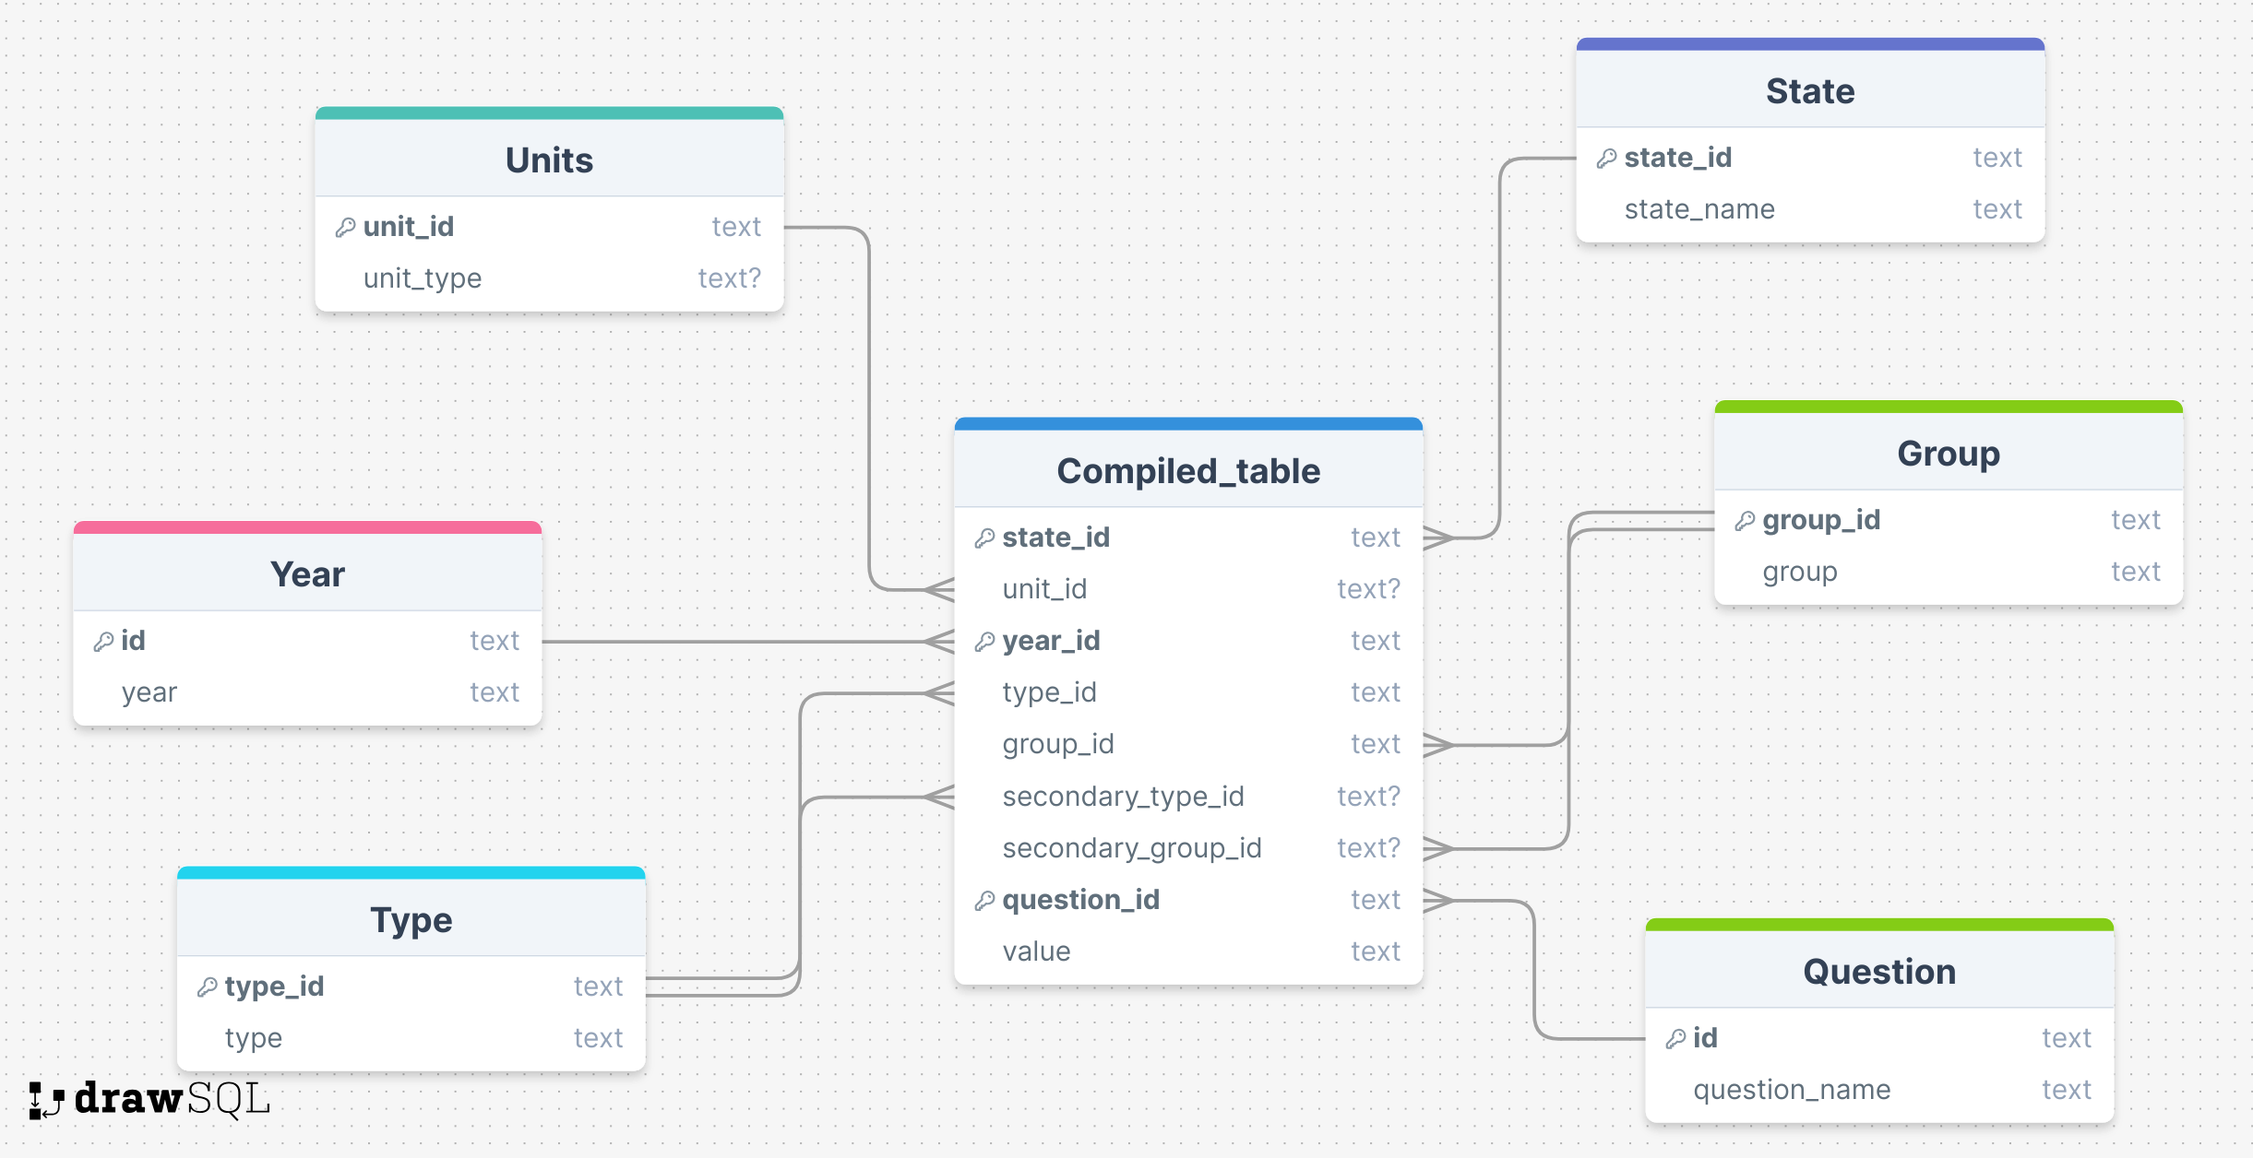
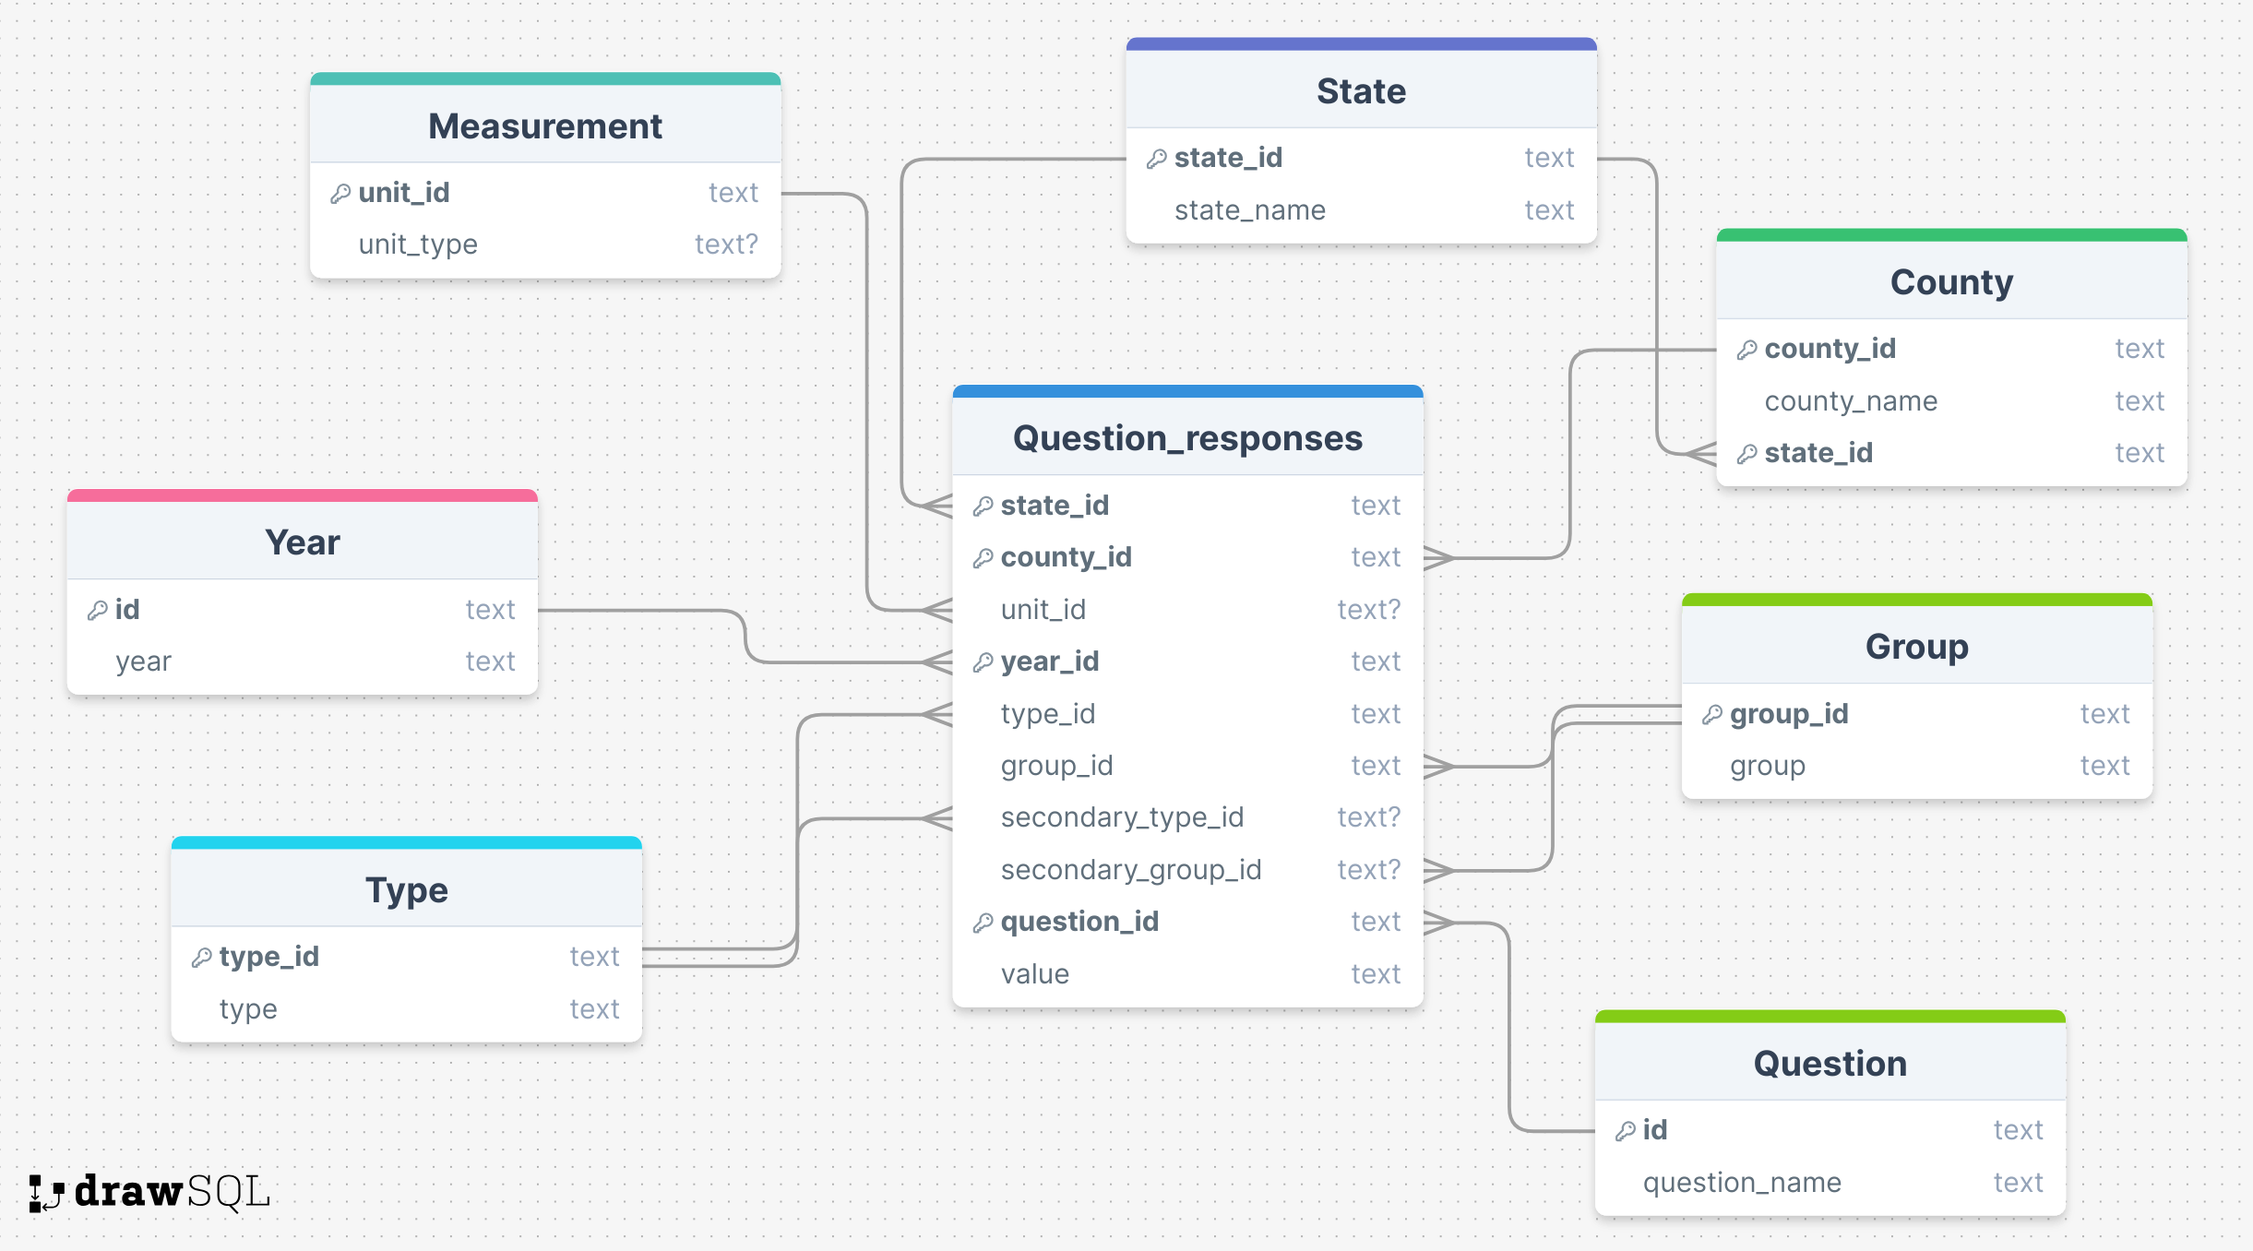
Built site for gh-pages

diff --git a/capstone.html b/capstone.html
@@ -90,6 +90,36 @@ ul.task-list li input[type="checkbox"] {
 </section>
 <section id="methods" class="level1">
 <h1>Methods</h1>
+<section id="sources" class="level2">
+<h2 class="anchored" data-anchor-id="sources">Sources</h2>
+<p>We gathered data from two public sources: KFF (an independent source for health policy research, polling, and news)⁶ and County Health Rankings and Roadmaps (CHRR).² Data was downloaded as CSVs and then cleaned using R. A detailed description of our data cleaning along with our data organizational structure (Entity Relationship Diagram) are in the data section below.</p>
+</section>
+<section id="data-analysis" class="level2">
+<h2 class="anchored" data-anchor-id="data-analysis">Data Analysis</h2>
+<section id="statistical-thinking" class="level3">
+<h3 class="anchored" data-anchor-id="statistical-thinking">Statistical Thinking</h3>
+<p>We used statistics (such as Pearson’s R correlation) and modeling (regression) to determine how access to preventative care correlates with health status. We determined health status using commonly used markers (proxies) such as life expectancy, quality of life, and mortality rates.³ We compared proportions across states to account for differences in population.</p>
+</section>
+<section id="data-visualization" class="level3">
+<h3 class="anchored" data-anchor-id="data-visualization">Data Visualization</h3>
+<p>We used data visualization as part of both our exploratory data analysis and in our final outcome. We created a map of the United States to determine if there is a spatial relationship between our variables and quality of health.</p>
+</section>
+<section id="data-engineering" class="level3">
+<h3 class="anchored" data-anchor-id="data-engineering">Data Engineering</h3>
+<p>We stored our data into a relational database and accessed it with Postgresql (through Railway). A detailed description for how this was done is in the data section below.</p>
+</section>
+<section id="machine-learning" class="level3">
+<h3 class="anchored" data-anchor-id="machine-learning">Machine Learning</h3>
+<p>We created a simple application where the user can enter their health insurance status, demographics, and current health status to discover their predicted life expectancy and health outcomes (using common metrics such as HALY, DALY, and QALY).⁷</p>
+</section>
+<section id="data-ethics" class="level3">
+<h3 class="anchored" data-anchor-id="data-ethics">Data Ethics</h3>
+<p>We were wary of furthering the gap between classes, races, and/or genders. Often, those in lower socioeconomic status tend to have lower quality of health and less access to affordable healthcare. Our goal was not to perpetuate this gap but to find potential solutions for these underserved populations. We also recognized that our datasets were incomplete and that we were not be able to represent everyone’s needs. Those who are not using well-known forms of insurance, such as Direct Primary Care, or who are not seeking traditional medical care are not represented.</p>
+</section>
+</section>
+</section>
+<section id="data" class="level1">
+<h1>Data</h1>
 <section id="data-ingestion" class="level2">
 <h2 class="anchored" data-anchor-id="data-ingestion">Data Ingestion</h2>
 <p>We gathered data from two sources: KFF (an independent source for health policy research, polling, and news)⁶ and County Health Rankings and Roadmaps (CHRR).²</p>
@@ -105,7 +135,7 @@ ul.task-list li input[type="checkbox"] {
 <p>Similar to KFF, we downloaded data for each state from 2022-2017 (not including 2020) from CHRR. We chose the “20xx County Health Release National Data” links for each year. This data included metrics such as life expectancy, death rate, years of potential loss rate, food environment index, percentage of physically inactive adults, percentage of excessive drinking, PCP ratio, and much more.²</p>
 <p>County Health Rankings and Roadmaps (CHRR) data was downloaded from the years 2017-2022 (excluding the missing 2020 year). Data from CHRR originally came in two separate CSVs for each year and broke up the data by each county in the United States.</p>
 <p>First, we cleaned up the columns. We reviewed the documentation and renamed any potentially confusing column names. For example, “#_Medicare_Enrollees” became “no_female_medicare_enrollees” to avoid mistakenly believeing the first column included both genders in its count. We dropped columns that would not be of help to us, such as the “95% CI - Low” and “95% CI - High” columns, as our dataset did not describe how these confidence intervals were found. We replaced all spaces with an underscore.</p>
-<p>Second, we joined the two CSVs for each year to have one CSV per year and added a “Year” column to help with merging later. Then we found the mean for each column for each state.</p>
+<p>Second, we joined the two CSVs for each year to have one CSV per year and added a “Year” column to help with merging later.</p>
 <p>Finally, we reformatted the CSVs to match that of the KFF data, where our original columns became the “question” column and the values filled in a new “values” column. Again, we used text parsing such as “grepl” and “gsub” to fill in our newly created “demographic,” “measure”, “group”, “secondary_demographic”, and “secondary_group” columns. For example, if our question was “mean_%<em>Children_in_Poverty</em>(white)”, our “demographic”, “group”, “secondary_demographic”, and “secondary_group” columns became “Race/Ethnicity”, “White”, “Age”, and “0-17”, respectively.</p>
 <p>Since the questions and potential answers collected by CHRR data varied each year, we made sure that our cleaning code was modified for each year to both accomodate the changes in the data and match identical answers from previous years. As an example, the only races that were listed as options in the 2017 data were “White”, “Black”, “Hispanic”, and “Asian”. However, by the 2022 data collection, the options had expanded to include “American Indian/Alaskan Native”, “Native Hawaiian/Other Pacific Islander”, and “Other/Multiple Races.” In 2022, “Black” was changed to “African American,” so we changed it back to “Black” to both match the earlier CHRR data and the KFF data.</p>
 </section>
@@ -120,32 +150,6 @@ ul.task-list li input[type="checkbox"] {
 </figure>
 </div>
 </section>
-<section id="data-analysis" class="level2">
-<h2 class="anchored" data-anchor-id="data-analysis">Data Analysis</h2>
-<section id="statistical-thinking" class="level3">
-<h3 class="anchored" data-anchor-id="statistical-thinking">Statistical Thinking</h3>
-<p>We used statistics (such as Pearson’s R correlation) and modeling (regression) to determine how access to preventative care correlates with health status. We determined health status using commonly used markers (proxies) such as life expectancy, quality of life, and mortality rates.³ We compared proportions across states to account for differences in population.</p>
-</section>
-<section id="data-visualization" class="level3">
-<h3 class="anchored" data-anchor-id="data-visualization">Data Visualization</h3>
-<p>We used data visualization as part of both our exploratory data analysis and in our final outcome. We created a map of the United States to determine if there is a spatial relationship between our variables and quality of health.</p>
-</section>
-<section id="data-engineering" class="level3">
-<h3 class="anchored" data-anchor-id="data-engineering">Data Engineering</h3>
-<p>We stored our data into a relational database and accessed it with Postgresql. See above for a detailed description for how this was done.</p>
-</section>
-<section id="machine-learning" class="level3">
-<h3 class="anchored" data-anchor-id="machine-learning">Machine Learning</h3>
-<p>We created a simple application where the user can enter their health insurance status, demographics, and current health status to discover their predicted life expectancy and health outcomes (using common metrics such as HALY, DALY, and QALY).⁷</p>
-</section>
-<section id="data-ethics" class="level3">
-<h3 class="anchored" data-anchor-id="data-ethics">Data Ethics</h3>
-<p>We were wary of furthering the gap between classes, races, and/or genders. Often, those in lower socioeconomic status tend to have lower quality of health and less access to affordable healthcare. Our goal was not to perpetuate this gap but to find potential solutions for these underserved populations. We also recognized that our datasets were incomplete and that we were not be able to represent everyone’s needs. Those who are not using well-known forms of insurance, such as Direct Primary Care, or who are not seeking traditional medical care are not represented.</p>
-</section>
-</section>
-</section>
-<section id="data" class="level1">
-<h1>Data</h1>
 </section>
 <section id="results" class="level1">
 <h1>Results</h1>

diff --git a/index.html b/index.html
@@ -90,6 +90,36 @@ ul.task-list li input[type="checkbox"] {
 </section>
 <section id="methods" class="level1">
 <h1>Methods</h1>
+<section id="sources" class="level2">
+<h2 class="anchored" data-anchor-id="sources">Sources</h2>
+<p>We gathered data from two public sources: KFF (an independent source for health policy research, polling, and news)⁶ and County Health Rankings and Roadmaps (CHRR).² Data was downloaded as CSVs and then cleaned using R. A detailed description of our data cleaning along with our data organizational structure (Entity Relationship Diagram) are in the data section below.</p>
+</section>
+<section id="data-analysis" class="level2">
+<h2 class="anchored" data-anchor-id="data-analysis">Data Analysis</h2>
+<section id="statistical-thinking" class="level3">
+<h3 class="anchored" data-anchor-id="statistical-thinking">Statistical Thinking</h3>
+<p>We used statistics (such as Pearson’s R correlation) and modeling (regression) to determine how access to preventative care correlates with health status. We determined health status using commonly used markers (proxies) such as life expectancy, quality of life, and mortality rates.³ We compared proportions across states to account for differences in population.</p>
+</section>
+<section id="data-visualization" class="level3">
+<h3 class="anchored" data-anchor-id="data-visualization">Data Visualization</h3>
+<p>We used data visualization as part of both our exploratory data analysis and in our final outcome. We created a map of the United States to determine if there is a spatial relationship between our variables and quality of health.</p>
+</section>
+<section id="data-engineering" class="level3">
+<h3 class="anchored" data-anchor-id="data-engineering">Data Engineering</h3>
+<p>We stored our data into a relational database and accessed it with Postgresql (through Railway). A detailed description for how this was done is in the data section below.</p>
+</section>
+<section id="machine-learning" class="level3">
+<h3 class="anchored" data-anchor-id="machine-learning">Machine Learning</h3>
+<p>We created a simple application where the user can enter their health insurance status, demographics, and current health status to discover their predicted life expectancy and health outcomes (using common metrics such as HALY, DALY, and QALY).⁷</p>
+</section>
+<section id="data-ethics" class="level3">
+<h3 class="anchored" data-anchor-id="data-ethics">Data Ethics</h3>
+<p>We were wary of furthering the gap between classes, races, and/or genders. Often, those in lower socioeconomic status tend to have lower quality of health and less access to affordable healthcare. Our goal was not to perpetuate this gap but to find potential solutions for these underserved populations. We also recognized that our datasets were incomplete and that we were not be able to represent everyone’s needs. Those who are not using well-known forms of insurance, such as Direct Primary Care, or who are not seeking traditional medical care are not represented.</p>
+</section>
+</section>
+</section>
+<section id="data" class="level1">
+<h1>Data</h1>
 <section id="data-ingestion" class="level2">
 <h2 class="anchored" data-anchor-id="data-ingestion">Data Ingestion</h2>
 <p>We gathered data from two sources: KFF (an independent source for health policy research, polling, and news)⁶ and County Health Rankings and Roadmaps (CHRR).²</p>
@@ -105,7 +135,7 @@ ul.task-list li input[type="checkbox"] {
 <p>Similar to KFF, we downloaded data for each state from 2022-2017 (not including 2020) from CHRR. We chose the “20xx County Health Release National Data” links for each year. This data included metrics such as life expectancy, death rate, years of potential loss rate, food environment index, percentage of physically inactive adults, percentage of excessive drinking, PCP ratio, and much more.²</p>
 <p>County Health Rankings and Roadmaps (CHRR) data was downloaded from the years 2017-2022 (excluding the missing 2020 year). Data from CHRR originally came in two separate CSVs for each year and broke up the data by each county in the United States.</p>
 <p>First, we cleaned up the columns. We reviewed the documentation and renamed any potentially confusing column names. For example, “#_Medicare_Enrollees” became “no_female_medicare_enrollees” to avoid mistakenly believeing the first column included both genders in its count. We dropped columns that would not be of help to us, such as the “95% CI - Low” and “95% CI - High” columns, as our dataset did not describe how these confidence intervals were found. We replaced all spaces with an underscore.</p>
-<p>Second, we joined the two CSVs for each year to have one CSV per year and added a “Year” column to help with merging later. Then we found the mean for each column for each state.</p>
+<p>Second, we joined the two CSVs for each year to have one CSV per year and added a “Year” column to help with merging later.</p>
 <p>Finally, we reformatted the CSVs to match that of the KFF data, where our original columns became the “question” column and the values filled in a new “values” column. Again, we used text parsing such as “grepl” and “gsub” to fill in our newly created “demographic,” “measure”, “group”, “secondary_demographic”, and “secondary_group” columns. For example, if our question was “mean_%<em>Children_in_Poverty</em>(white)”, our “demographic”, “group”, “secondary_demographic”, and “secondary_group” columns became “Race/Ethnicity”, “White”, “Age”, and “0-17”, respectively.</p>
 <p>Since the questions and potential answers collected by CHRR data varied each year, we made sure that our cleaning code was modified for each year to both accomodate the changes in the data and match identical answers from previous years. As an example, the only races that were listed as options in the 2017 data were “White”, “Black”, “Hispanic”, and “Asian”. However, by the 2022 data collection, the options had expanded to include “American Indian/Alaskan Native”, “Native Hawaiian/Other Pacific Islander”, and “Other/Multiple Races.” In 2022, “Black” was changed to “African American,” so we changed it back to “Black” to both match the earlier CHRR data and the KFF data.</p>
 </section>
@@ -120,32 +150,6 @@ ul.task-list li input[type="checkbox"] {
 </figure>
 </div>
 </section>
-<section id="data-analysis" class="level2">
-<h2 class="anchored" data-anchor-id="data-analysis">Data Analysis</h2>
-<section id="statistical-thinking" class="level3">
-<h3 class="anchored" data-anchor-id="statistical-thinking">Statistical Thinking</h3>
-<p>We used statistics (such as Pearson’s R correlation) and modeling (regression) to determine how access to preventative care correlates with health status. We determined health status using commonly used markers (proxies) such as life expectancy, quality of life, and mortality rates.³ We compared proportions across states to account for differences in population.</p>
-</section>
-<section id="data-visualization" class="level3">
-<h3 class="anchored" data-anchor-id="data-visualization">Data Visualization</h3>
-<p>We used data visualization as part of both our exploratory data analysis and in our final outcome. We created a map of the United States to determine if there is a spatial relationship between our variables and quality of health.</p>
-</section>
-<section id="data-engineering" class="level3">
-<h3 class="anchored" data-anchor-id="data-engineering">Data Engineering</h3>
-<p>We stored our data into a relational database and accessed it with Postgresql. See above for a detailed description for how this was done.</p>
-</section>
-<section id="machine-learning" class="level3">
-<h3 class="anchored" data-anchor-id="machine-learning">Machine Learning</h3>
-<p>We created a simple application where the user can enter their health insurance status, demographics, and current health status to discover their predicted life expectancy and health outcomes (using common metrics such as HALY, DALY, and QALY).⁷</p>
-</section>
-<section id="data-ethics" class="level3">
-<h3 class="anchored" data-anchor-id="data-ethics">Data Ethics</h3>
-<p>We were wary of furthering the gap between classes, races, and/or genders. Often, those in lower socioeconomic status tend to have lower quality of health and less access to affordable healthcare. Our goal was not to perpetuate this gap but to find potential solutions for these underserved populations. We also recognized that our datasets were incomplete and that we were not be able to represent everyone’s needs. Those who are not using well-known forms of insurance, such as Direct Primary Care, or who are not seeking traditional medical care are not represented.</p>
-</section>
-</section>
-</section>
-<section id="data" class="level1">
-<h1>Data</h1>
 </section>
 <section id="results" class="level1">
 <h1>Results</h1>
